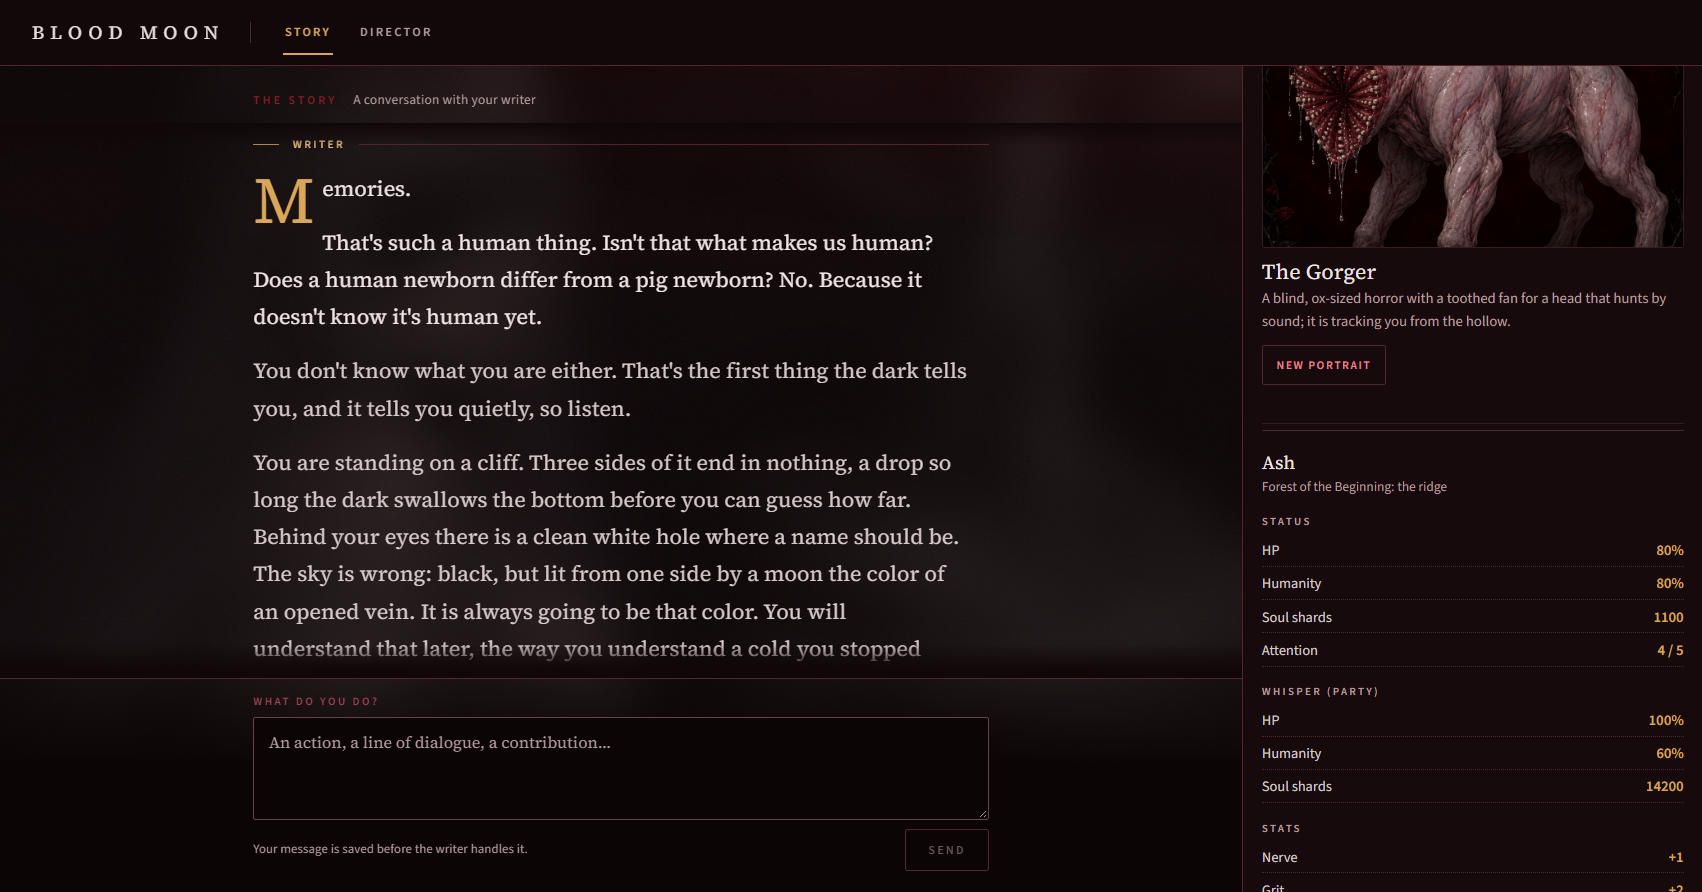
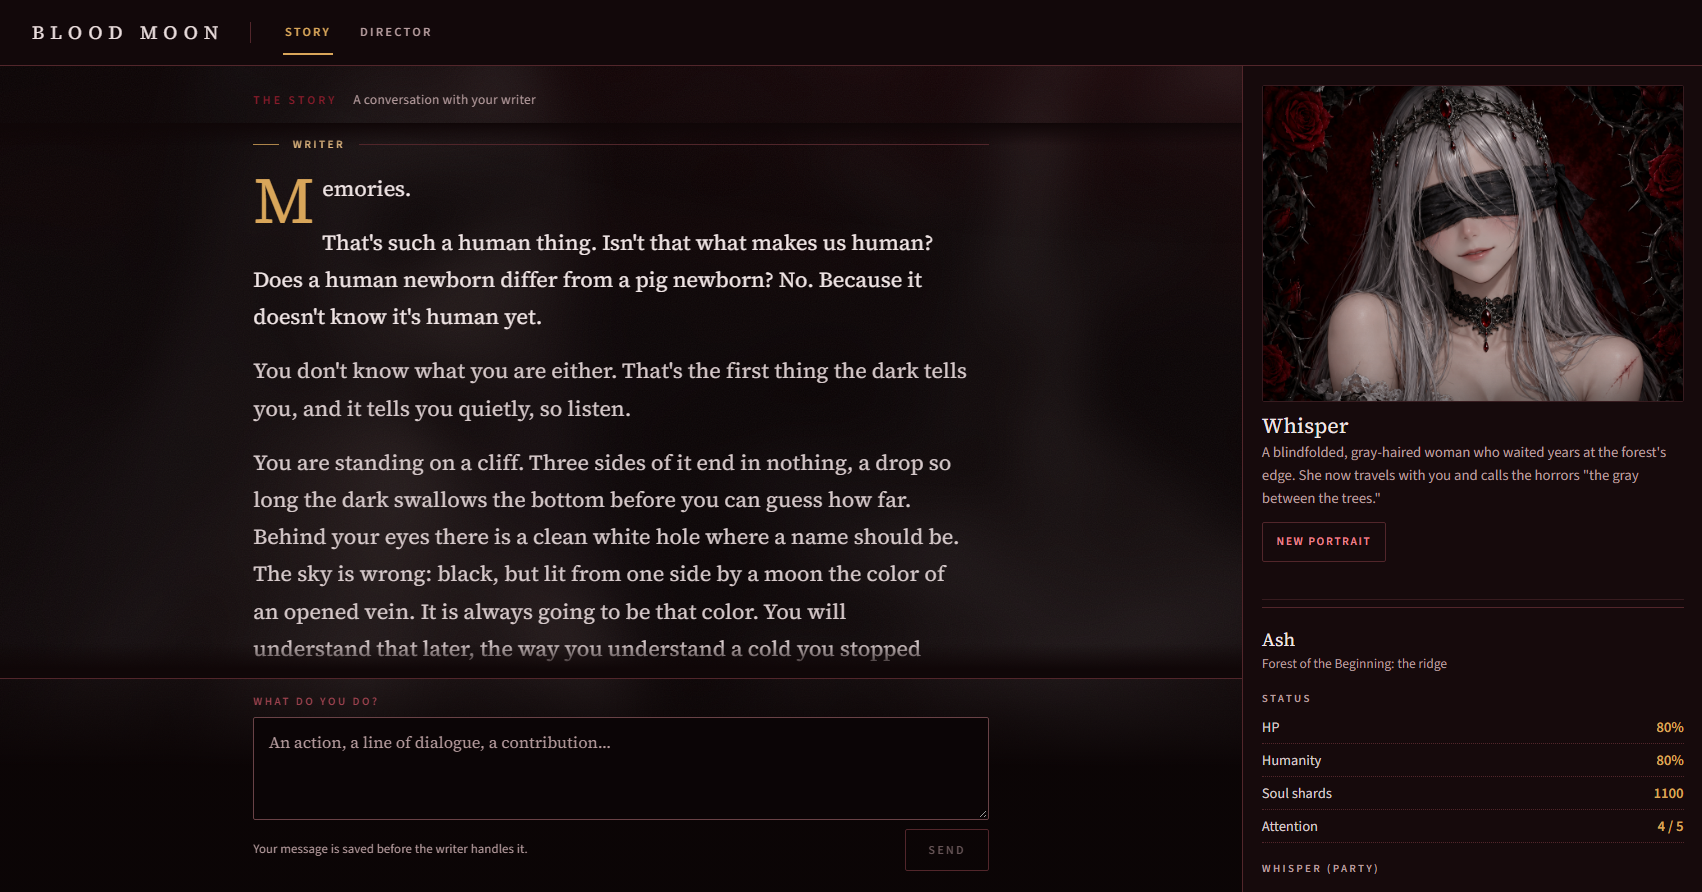
docs: story screenshot keeps Whisper beside the sheet (ISS-6)

diff --git a/docs/plans/public-release.md b/docs/plans/public-release.md
@@ -16,7 +16,7 @@ Run `egm-drift-report` over the [design](../designs/couldhappen.md), [distributi
 
 Retake the screenshots in the README and on GitHub for the restyled reader ([ADR-6](../decisions/ADR-6-dark-petrol-reader.md)).
 
-**Closed 2026-11-11.** `director.png` and `story-empty.png` were retaken at 1702×892 in the current stock reader, from a temporary copy of the public files of the 0.1.10 D&D story workspace (the story the old shots showed); `director.png` shows the first Director exchange with an empty cast, as it was before any picture was made. `story-cast.png` was taken from the same files in a throwaway copy of the reader with the scene-images theme and the rpg-mechanics sheet panel applied as those packages describe, using that session's own `sheet.json` (its "Blood moon" theme and Ash's stats); the repository's reader was not changed. `director-export.png` shows a reader a player built, not the stock one, so it was kept.
+**Closed 2026-11-11.** `director.png` and `story-empty.png` were retaken at 1702×892 in the current stock reader, from a temporary copy of the public files of the 0.1.10 D&D story workspace (the story the old shots showed); `director.png` shows the first Director exchange with an empty cast, as it was before any picture was made. `story-cast.png` was taken from the same files in a throwaway copy of the reader with the scene-images theme and the rpg-mechanics sheet panel applied as those packages describe, using that session's own `sheet.json` (its "Blood moon" theme and Ash's stats), with the Gorger left out of the cast so Whisper and the sheet share the frame; the repository's reader was not changed. `director-export.png` shows a reader a player built, not the stock one, so it was kept.
 
 ## ISS-17 — EGM design review
 
